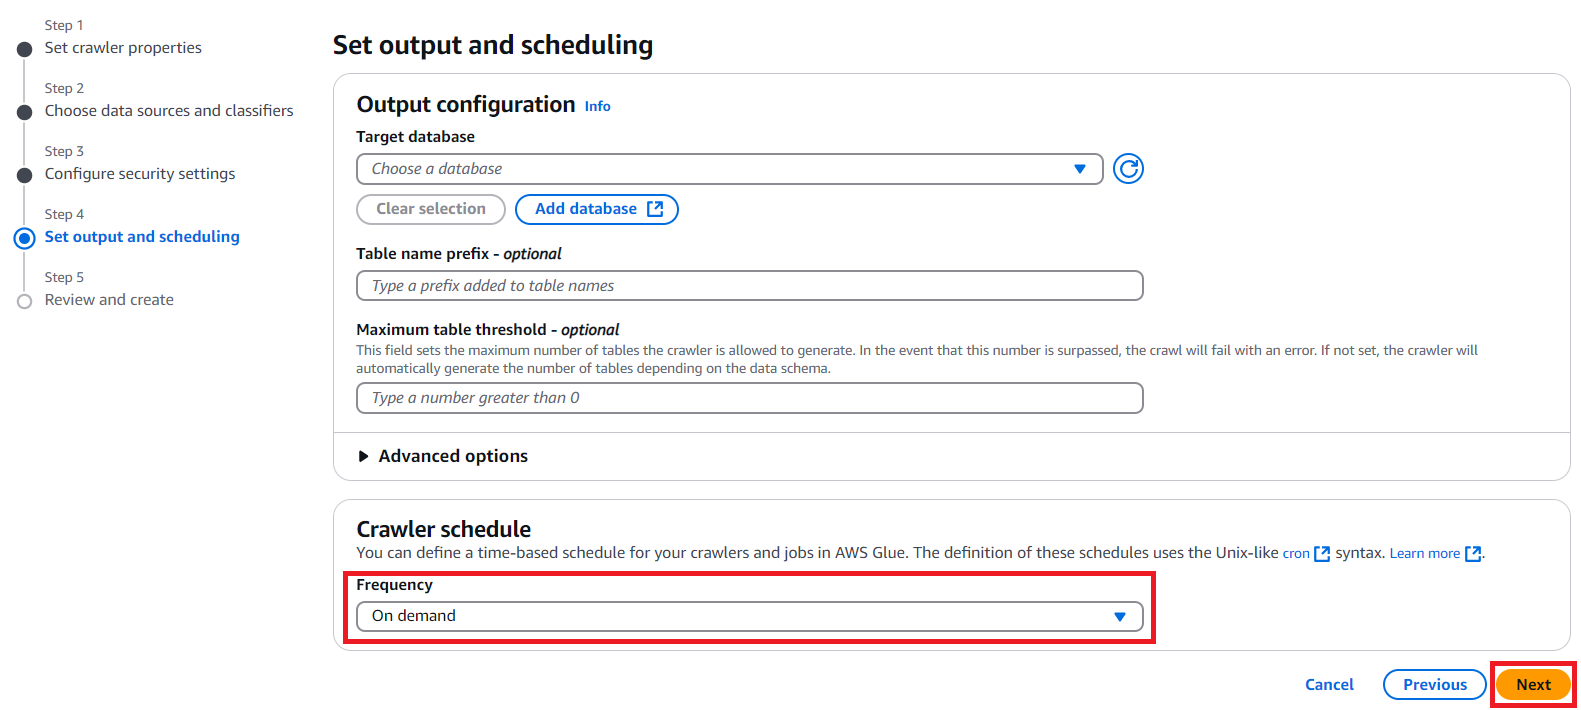
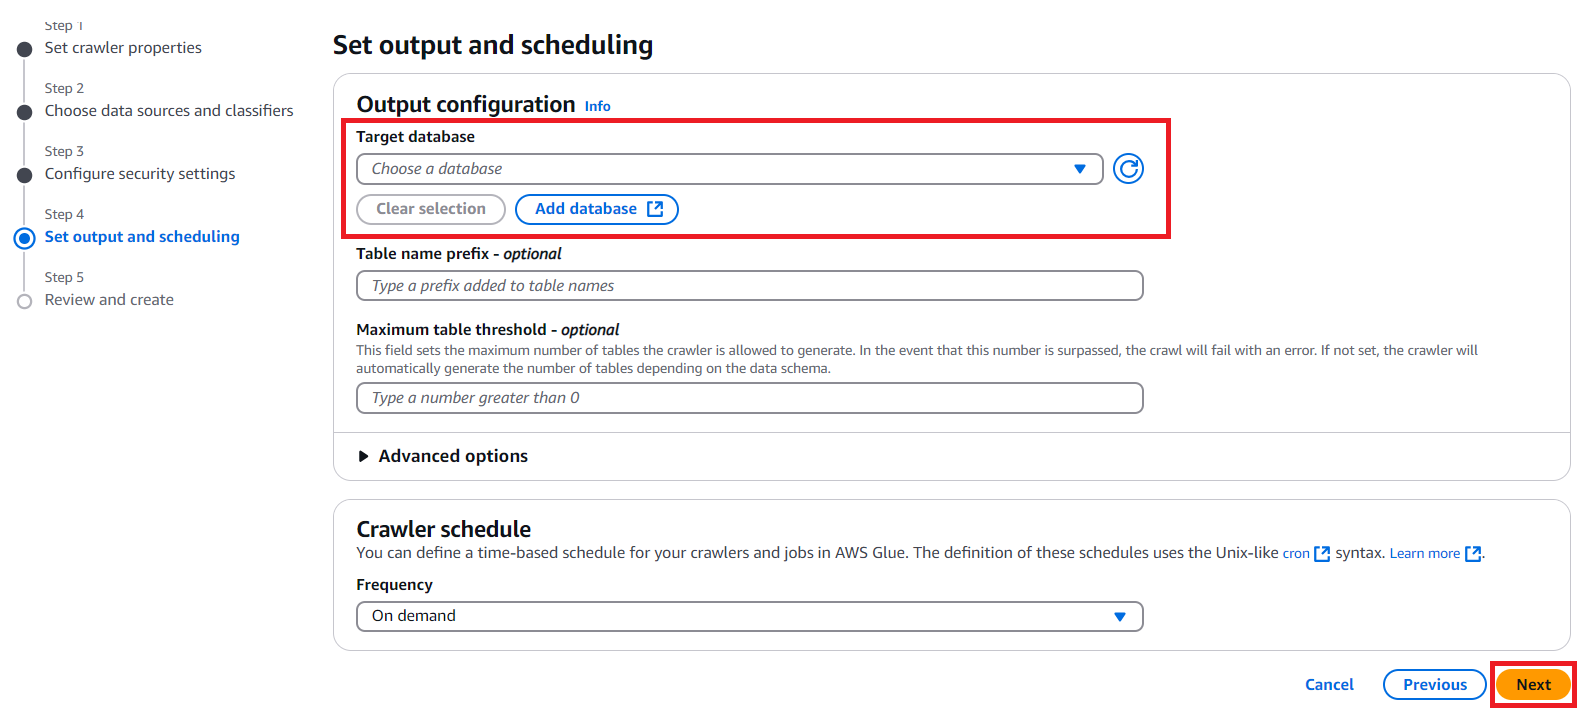
polished "Create Athena databse" to make it more general rather than just for SRA data

Changed region(s): [[0.217, 0.8056, 0.7438, 0.9296], [0.217, 0.1549, 0.7438, 0.3408]]

diff --git a/docs/create_athena_database.md b/docs/create_athena_database.md
@@ -1,4 +1,4 @@
-# Searching the SRA database using Amazon Athena
+# Creating and Searching a database using Amazon Athena
 
 1) Navigate to the Amazon Athena homepage. Click **Data sources and catalogs**.
 
@@ -24,24 +24,19 @@
 
 <img src="./images/athena/6_click_add_data_source.png">
 
-7) Now we add the data source. For *Data source* select **S3**. For *Location of S3 data* and select **In a diffirent account**. For *S3 path* select one of the two paths from this [NCBI guide](https://www.ncbi.nlm.nih.gov/sra/docs/sra-athena/) which is either:
-- Entire SRA metadata: s3://sra-pub-metadata-us-east-1
-- Coronaviridae dataset in the AWS Public Dataset Program: s3://sra-pub-sars-cov2-metadata-us-east-1/v2/
-
-
-Click **Add an S3 data source**. 
+7) Now we add the data source.
 
 <img src="./images/athena/7_add_data_source.png">
 
-8) Select **Create an IAM role**, give your role some kind of name like `sraCrawler`. This will add a role and grant it permissions to access the public S3 bucket with the SRA metadata. Feel free to go to `IAM` and search for the Role you just created. Click **Next**.
+8) Select **Create an IAM role**, give your role some kind of name like `sraCrawler`. Click on `Update choosen IAM Role`. This will add a role and grant it permissions to access the public S3 bucket. Click **Next**.
 
 <img src="./images/athena/8_create_role.png">
 
-9) For **Set output and scheduling**, leave the default options and click **Next**. 
+9) For **Target database**, Click **Add database**. 
 
 <img src="./images/athena/9_output_scheduling.png">
 
-10) Name your Database. Click **Create database**.
+10) Name your database. Click **Create database**.
 
 <img src="./images/athena/10_create_database.png">
 
@@ -49,7 +44,7 @@ Click **Add an S3 data source**.
 
 <img src="./images/athena/11_run_crawler.png">
 
-## Query the SRA metadata via Athena user interface
+## Query the database via Athena user interface
 
 1) Navigate to the `Amazon Athena > Query editor`. Before you run you need to set up query result location in Amazon S3. Click `Edit setting`.
 
@@ -69,6 +64,6 @@ Click **Add an S3 data source**.
 
 
 
-## Query the SRA metadata using via Jupyter Notebook
+## Query a databse via Jupyter Notebook
 
-You can query the SRA database via a Jupyter Notebook. We provide an example [here](https://github.com/STRIDES/NIHCloudLabAWS/blob/main/notebooks/SRADownload/SRA-Download.ipynb), as well as [these examples](https://github.com/ncbi/ASHG-Workshop-2021) produced by the SRA team. In that GitHub repo, you can view notebook 2 and adapt it from BigQuery to Athena, and then notebook 3 is a great example or different kinds of Athena queries you can run. 
+You can query a database via a Jupyter Notebook. We provide an example [here](https://github.com/STRIDES/NIHCloudLabAWS/blob/main/notebooks/SRADownload/SRA-Download.ipynb), as well as [these examples](https://github.com/ncbi/ASHG-Workshop-2021). 
